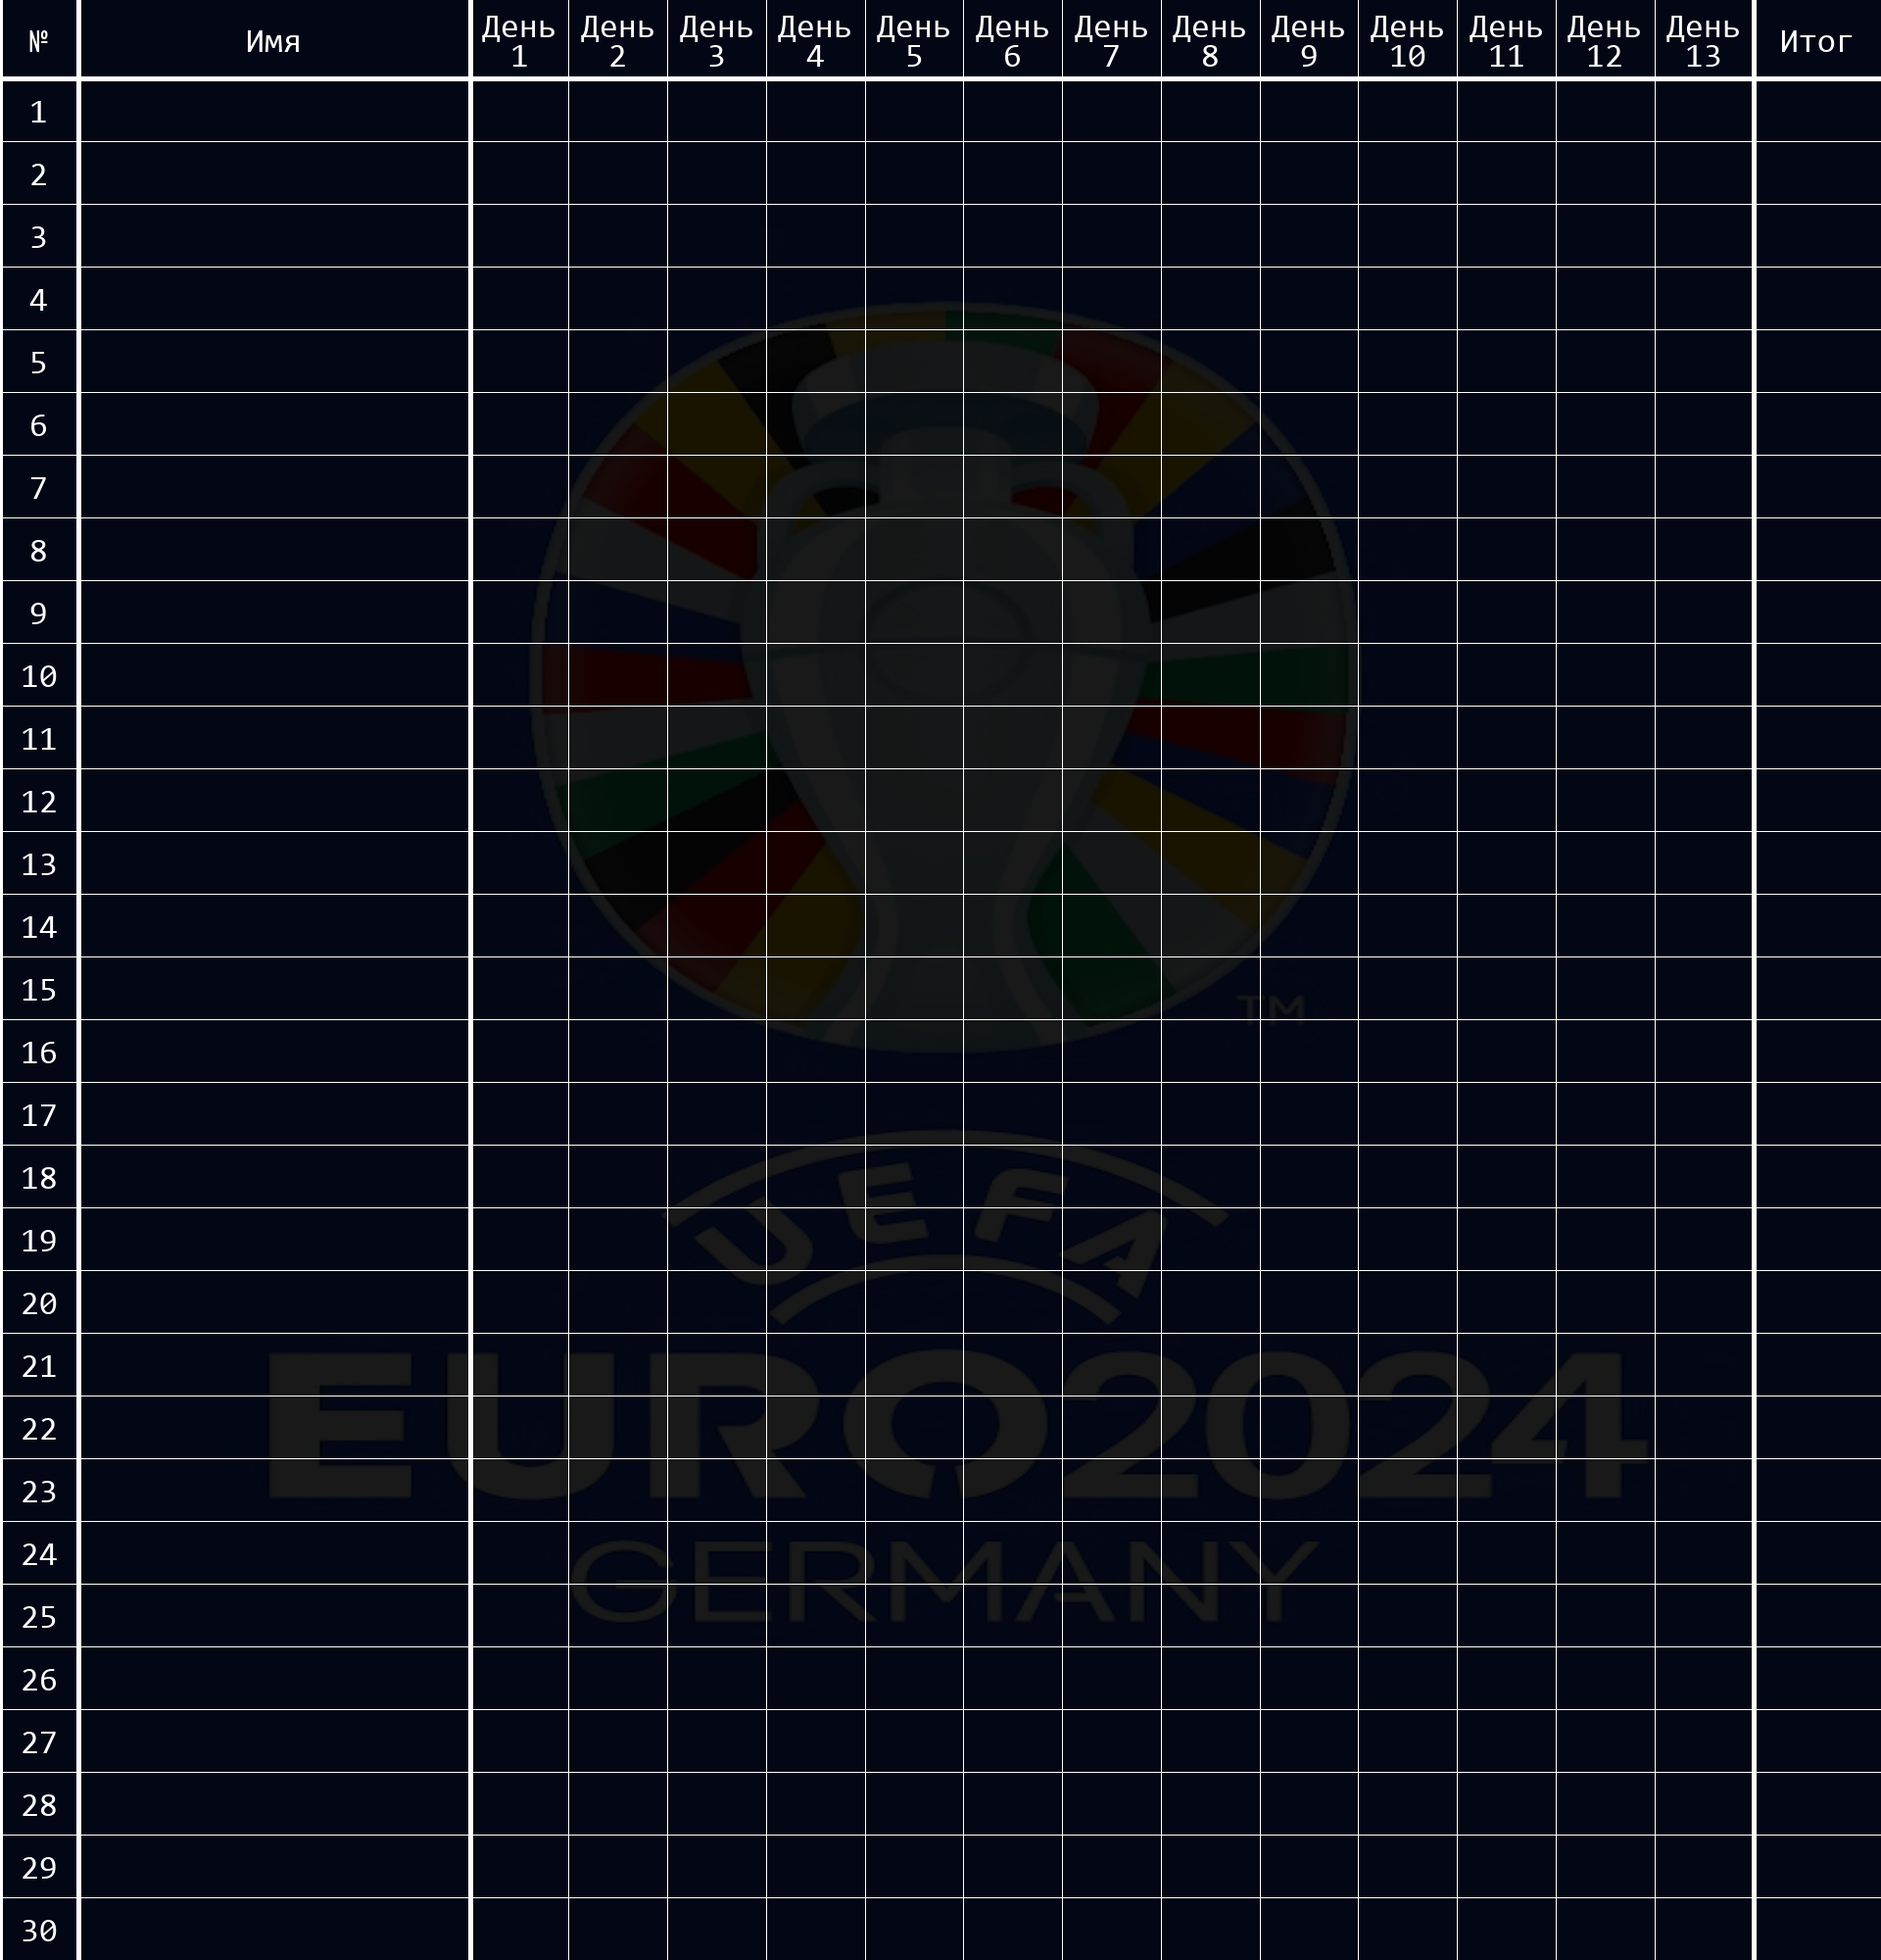
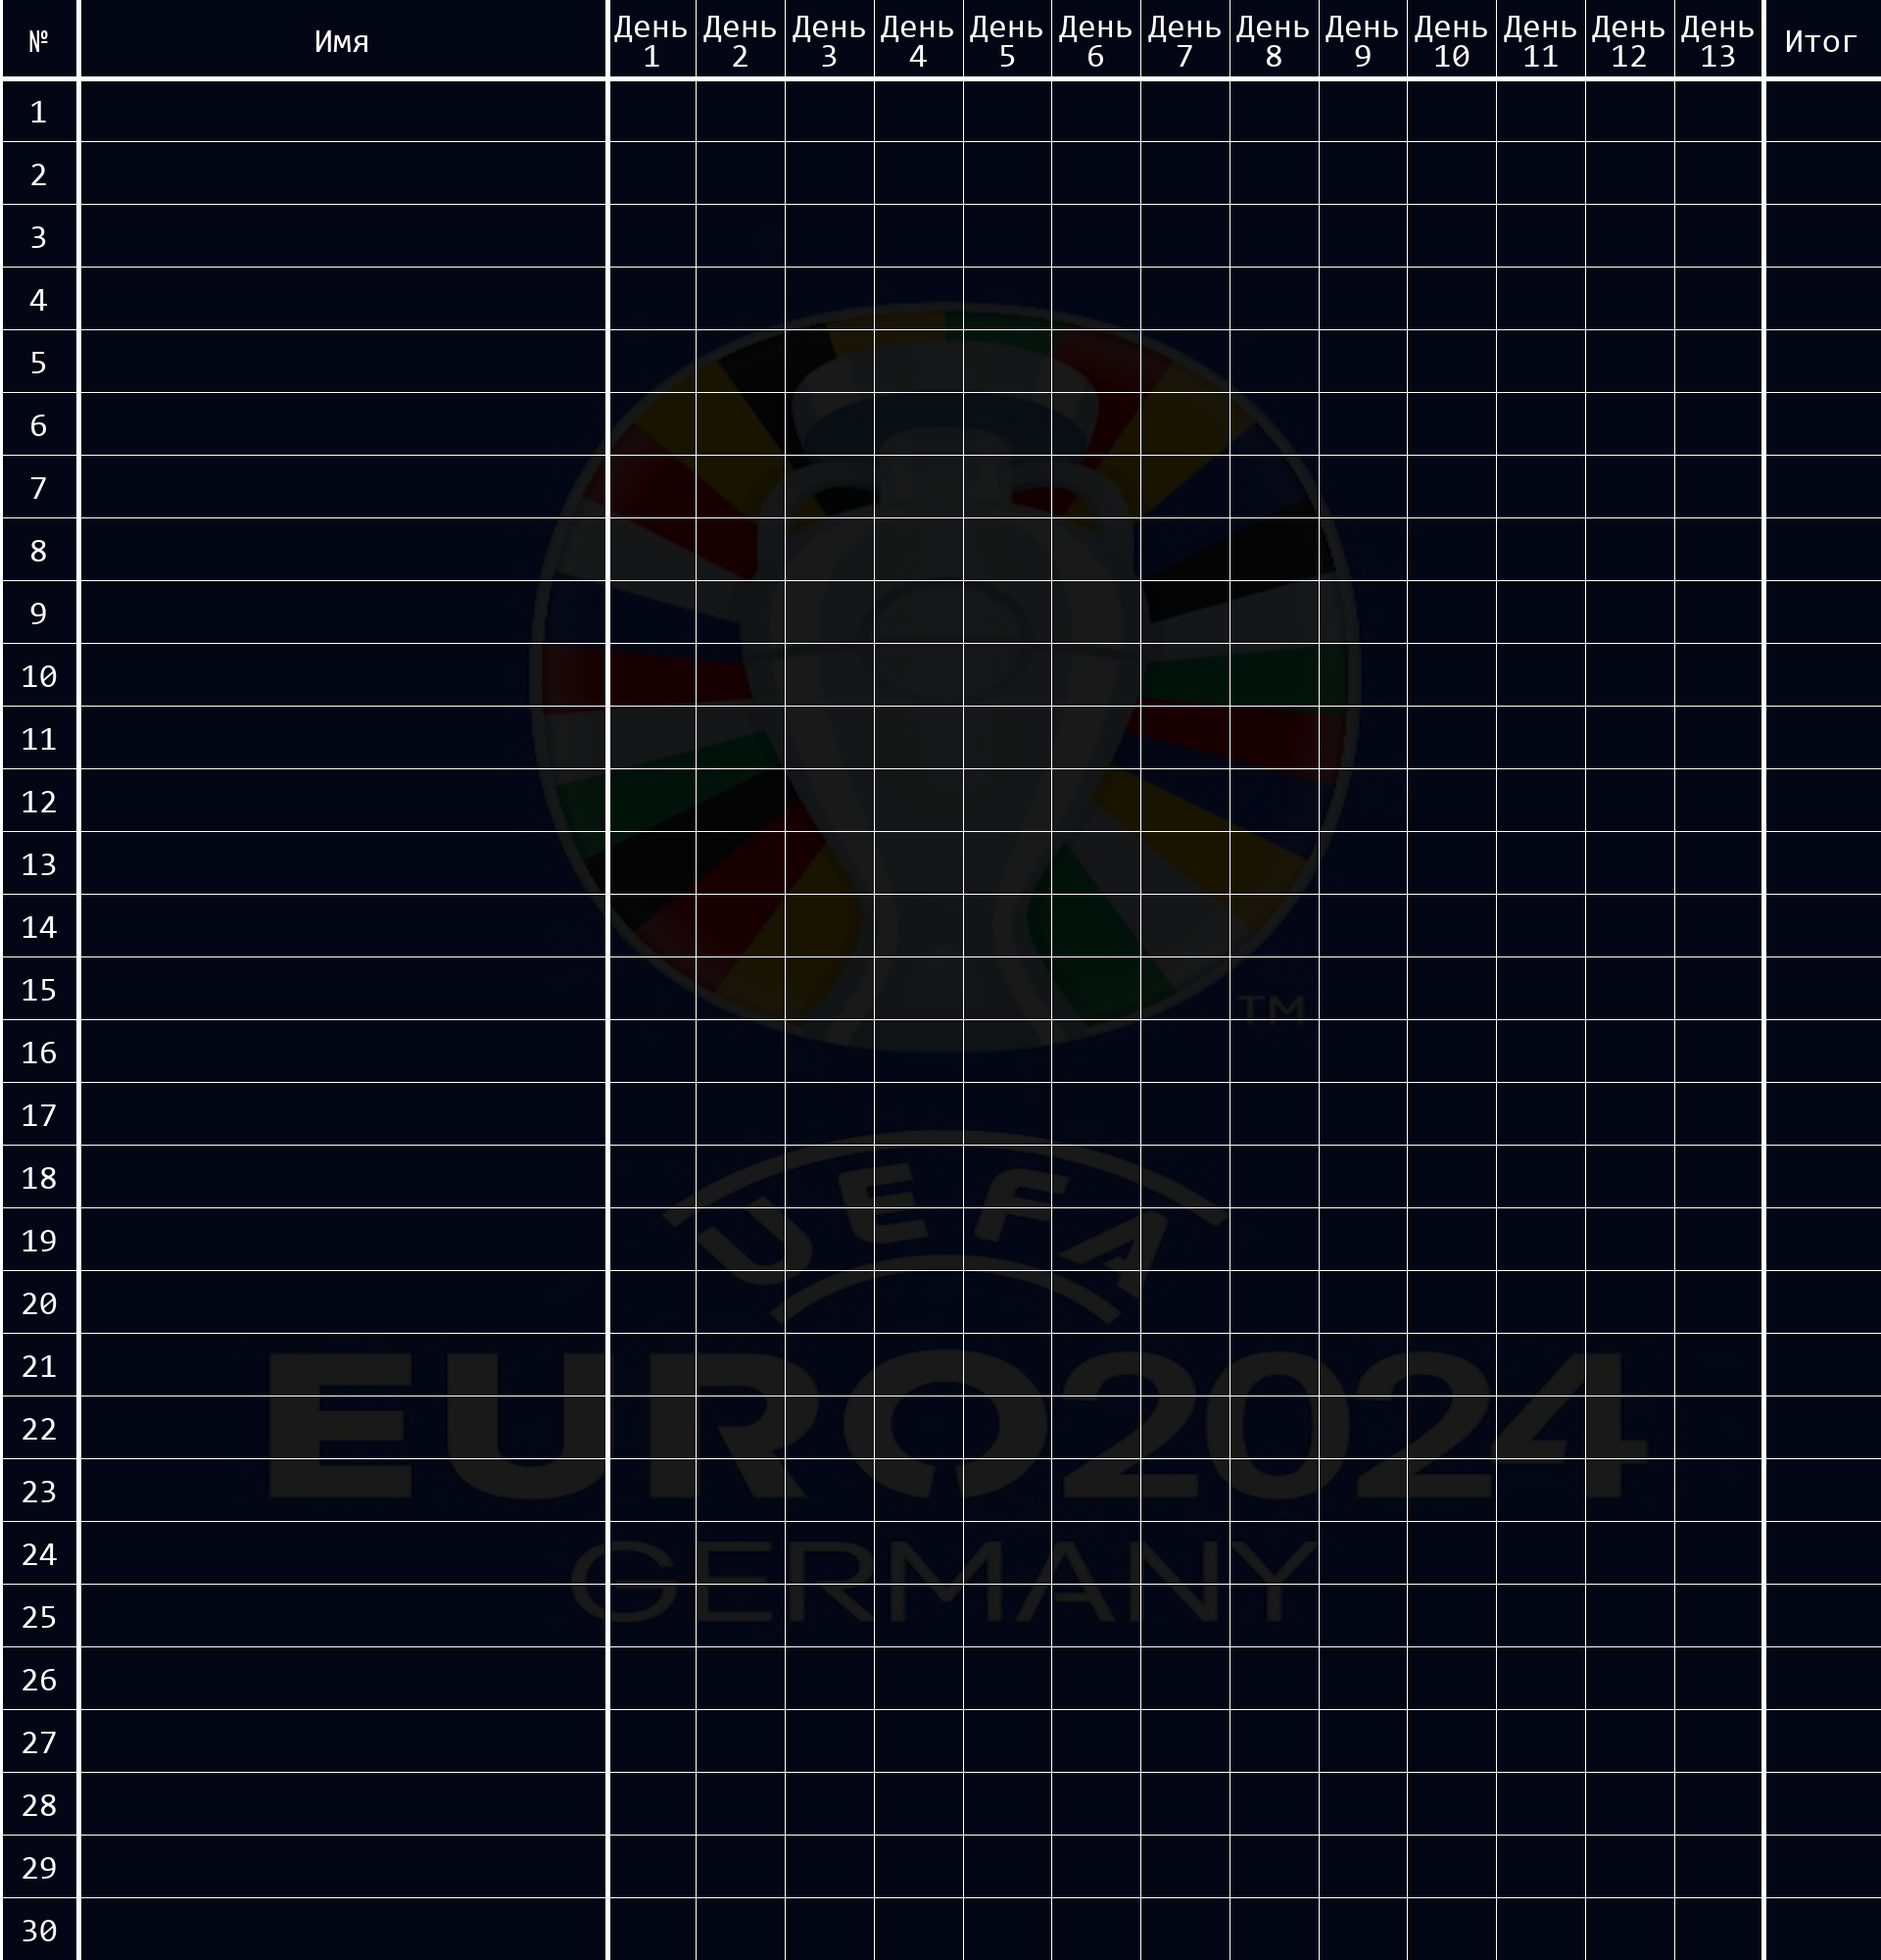
update main table and increase markup

Changed region(s): [[0.3125, 0.0, 0.9688, 1.0], [0.125, 0.0, 0.1875, 0.031], [0.25, 0.0, 0.2812, 0.031]]

diff --git a/image_creator/markup_table.py b/image_creator/markup_table.py
@@ -5,9 +5,9 @@ class Main_table_markup:
         self.head_size = 80
         self.offset_size = {"x": 0, "dx": 0}
         self.place_size = {"x": 0, "dx": 80}
-        self.name_size = {"x": 80, "dx": 400}
-        self.tours_size = {"x": 480, "dx": 1310}
-        self.sum_size = {"x": 1790, "dx": 130}
+        self.name_size = {"x": 80, "dx": 540}
+        self.tours_size = {"x": 620, "dx": 1180}
+        self.sum_size = {"x": 1800, "dx": 120}
         self.dy = (config.image_height - self.head_size) / config.NUMBER_OF_PLAYERS
         self.tours_dx = self.tours_size["dx"] / config.COUNT_TOUR_IN_TABLE
 

diff --git a/keyboards/reply/my_marcup.py b/keyboards/reply/my_marcup.py
@@ -30,7 +30,7 @@ def short_tour_menu_marcup() -> types.ReplyKeyboardMarkup:
     marcup.add(types.KeyboardButton("Вернуться в меню"))
     now_tour = base.get_now_tour()
     min_tour = max(now_tour - 3, 0)
-    for i in list(relations.HUMAN_DCT.keys())[min_tour:min(min_tour + 4, max(relations.TOUR_DCT.keys()))]:
+    for i in list(relations.HUMAN_DCT.keys())[min_tour:min(min_tour + 6, max(relations.TOUR_DCT.keys()))]:
         marcup.add(types.KeyboardButton(f"{i}"))
     return marcup
 

diff --git a/image_creator/table_creator.py b/image_creator/table_creator.py
@@ -4,7 +4,7 @@ from image_creator.markup_table import Main_table_markup, Result_tour_markup, Po
 
 
 def drawtext(imdraw: ImageDraw.ImageDraw, x, y, dx, dy, text, color_fill="white"):
-    font = ImageFont.truetype("images/Fonts/consolas.ttf", size=32)
+    font = ImageFont.truetype("images/Fonts/consolas.ttf", size=42)
     _, _, w, h = imdraw.textbbox((0, 0), text, font = font)
     text_x = (dx - w) // 2 + x
     text_y = (dy - h) // 2 + y
